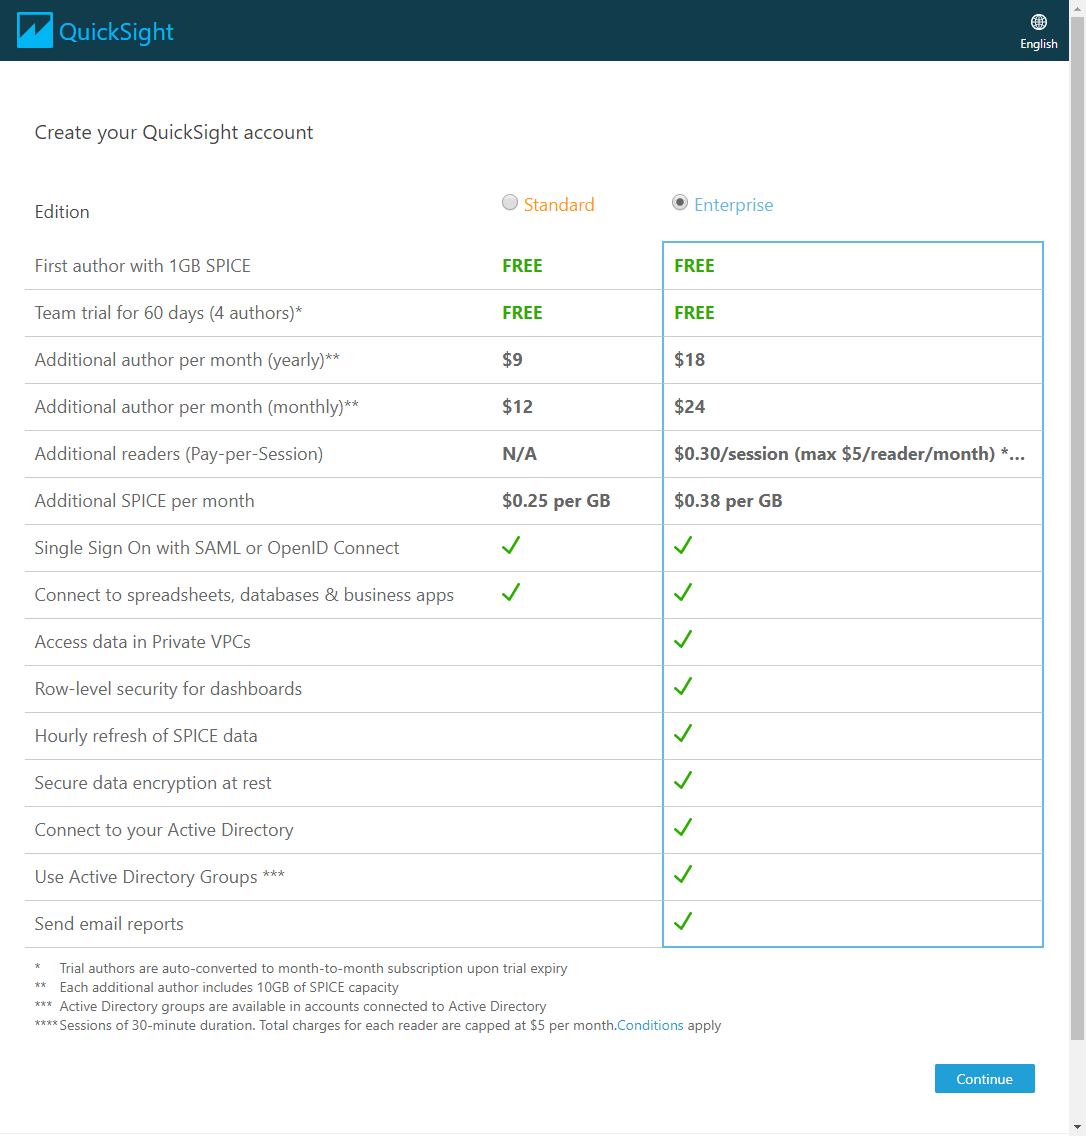
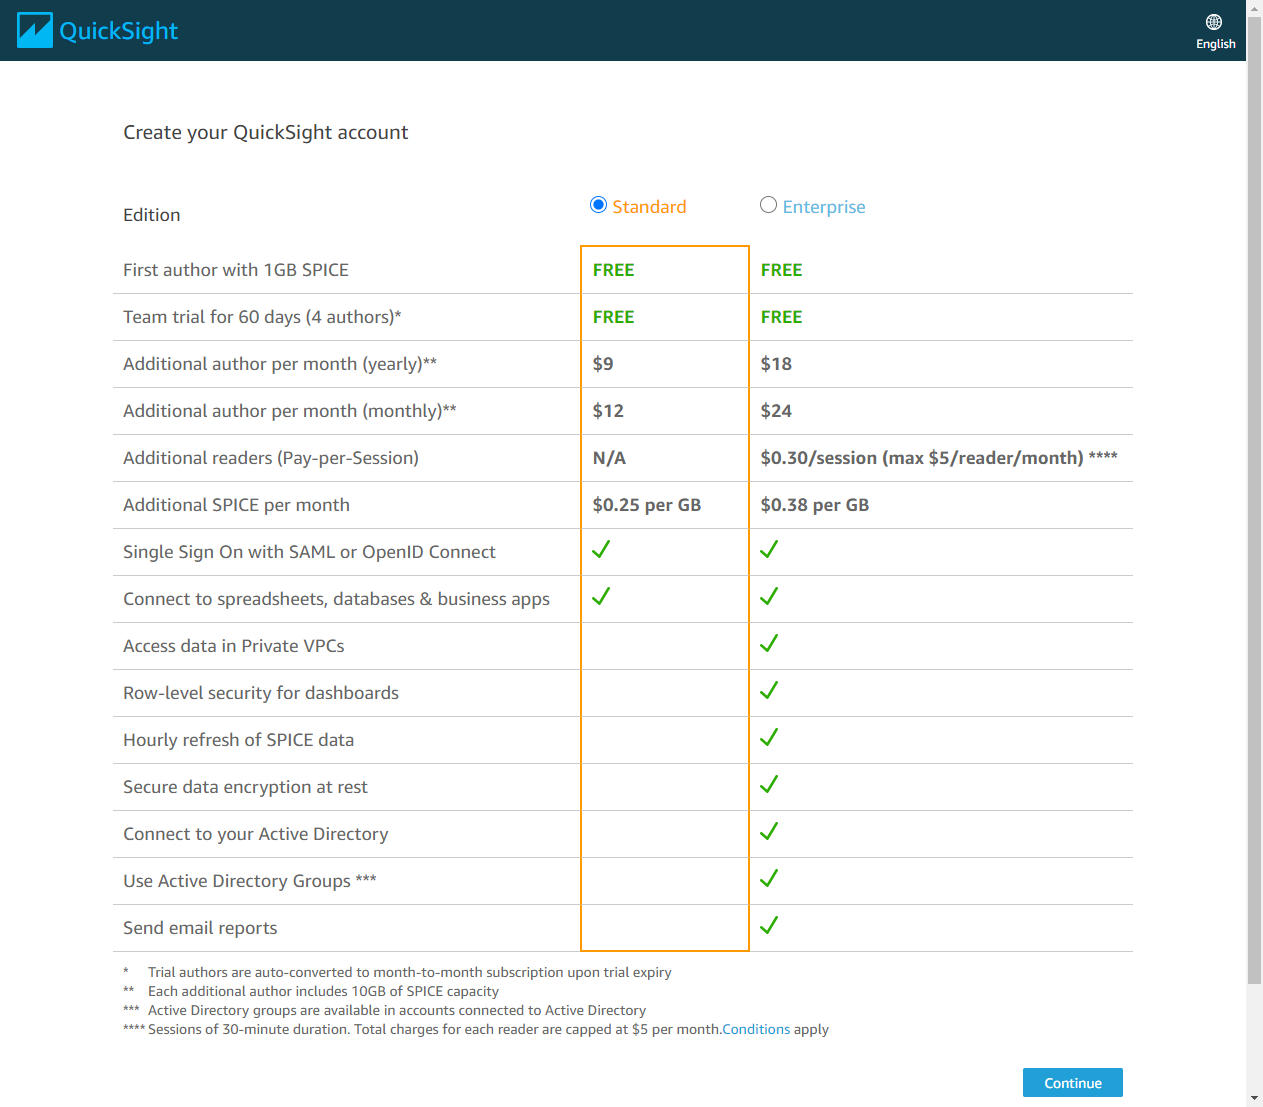
Updated regions

diff --git a/3-photos/1-chromakey/README.md b/3-photos/1-chromakey/README.md
@@ -53,10 +53,11 @@ Lambda functions can be written in different runtimes and can also use pre-packa
 | us-east-1 | US East - Northern Virginia | `arn:aws:lambda:us-east-1:678705476278:layer:Chromakey:1`
 | eu-central-1 | Frankfurt | `arn:aws:lambda:eu-central-1:678705476278:layer:Chromakey:1`
 | ap-southeast-2 | Sydney | `arn:aws:lambda:ap-southeast-2:678705476278:layer:Chromakey:1`
+| eu-west-1 | Dublin | `arn:aws:lambda:eu-west-1:678705476278:layer:Chromakey:1`
 
 Paste the ARN into the *Layer version ARN* field. Select **Add**.
 
-**:star: If you'e interested in seeing the contents and structure of the Lambda layer, you can [download the zip file](https://innovator-island.s3-us-west-2.amazonaws.com/cv2-layer.zip). This is not required for the workshop.
+**:star: If you're interested in seeing the contents and structure of the Lambda layer, you can [download the zip file](https://innovator-island.s3-us-west-2.amazonaws.com/cv2-layer.zip). This is not required for the workshop.
 
 ![Module 3 - Add layer](../../images/3-photos-chroma3.png)
 

diff --git a/5-park-stats/3-quicksight/README.md b/5-park-stats/3-quicksight/README.md
@@ -14,7 +14,7 @@ Using the data from the simulation, you will use Amazon QuickSight to answer que
 
 ![Sign up for QuickSight](../../images/module5-3-signup.png)
 
-3. In the *Create your QuickSight account* page, leave the **Enterprise** option selected and choose **Continue**.
+3. In the *Create your QuickSight account* page, select the **Standard** option and choose **Continue**.
 
 ![Enterprise plan](../../images/module5-3-signup-2.png)
 

diff --git a/0-setup/README.md b/0-setup/README.md
@@ -21,6 +21,7 @@ Use a single region for the entirety of this workshop. This workshop only suppor
 - us-east-1 (US East - Northern Virginia)
 - ap-southeast-2 (Sydney, Australia)
 - eu-central-1 (Frankfurt, Germany)
+- eu-west-1 (Dublin, Ireland)
 
 ### AWS Cloud9 IDE
 
